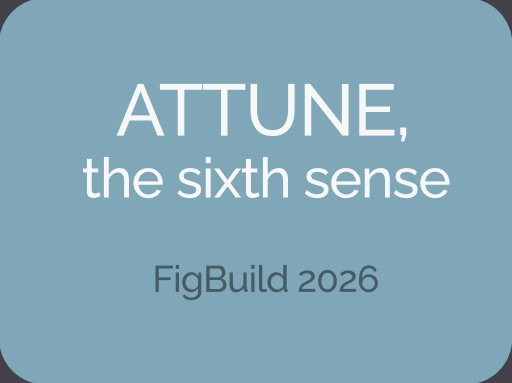
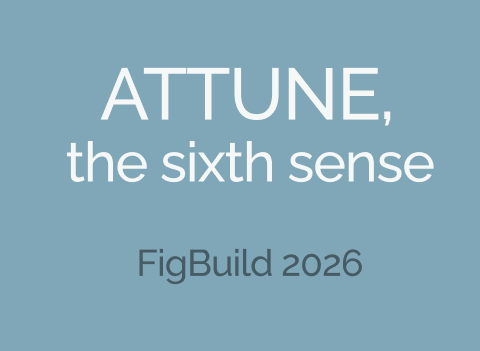
updated images to fit width

diff --git a/src/components/project-card.tsx b/src/components/project-card.tsx
@@ -64,6 +64,8 @@ export function ProjectCard({
           <Image
             src={image}
             alt={title}
+            width={500}
+            height={300}
             className="h-40 w-full rounded-t-[calc(var(--radius)-1px)] border-b object-cover object-top"
           />
         )}
